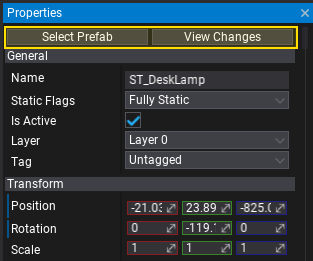
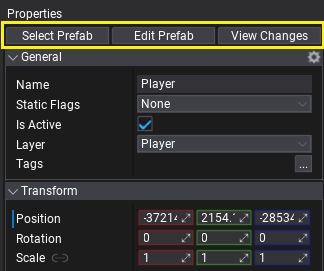
Added edit prefab button to prefab get started man

diff --git a/manual/get-started/prefabs/index.md b/manual/get-started/prefabs/index.md
@@ -44,6 +44,8 @@ After selecting a prefab instance the *Properties Window* shows two additional b
 
 The **Select Prefab** button shows the linked prefab asset location in the *Content Window* and selects it.
 
+The **Edit Prefab** opens the selected prefab in a new *Prefab editor*.
+
 The **View Changes** button shows a popup with any modified actor and scripts properties compared to the prefab. It is used to see all the changes applied to the prefab instance and allows them to be reverted or applied to the prefab. The picture below shows the content of a sample prefab changes popup. You can right click on the modified tree nodes to revert the per-property change while keeping other modification unchanged.
 
 ![Prefab Instance Diff Popup](media/prefab-instance-diff-popup.png)
